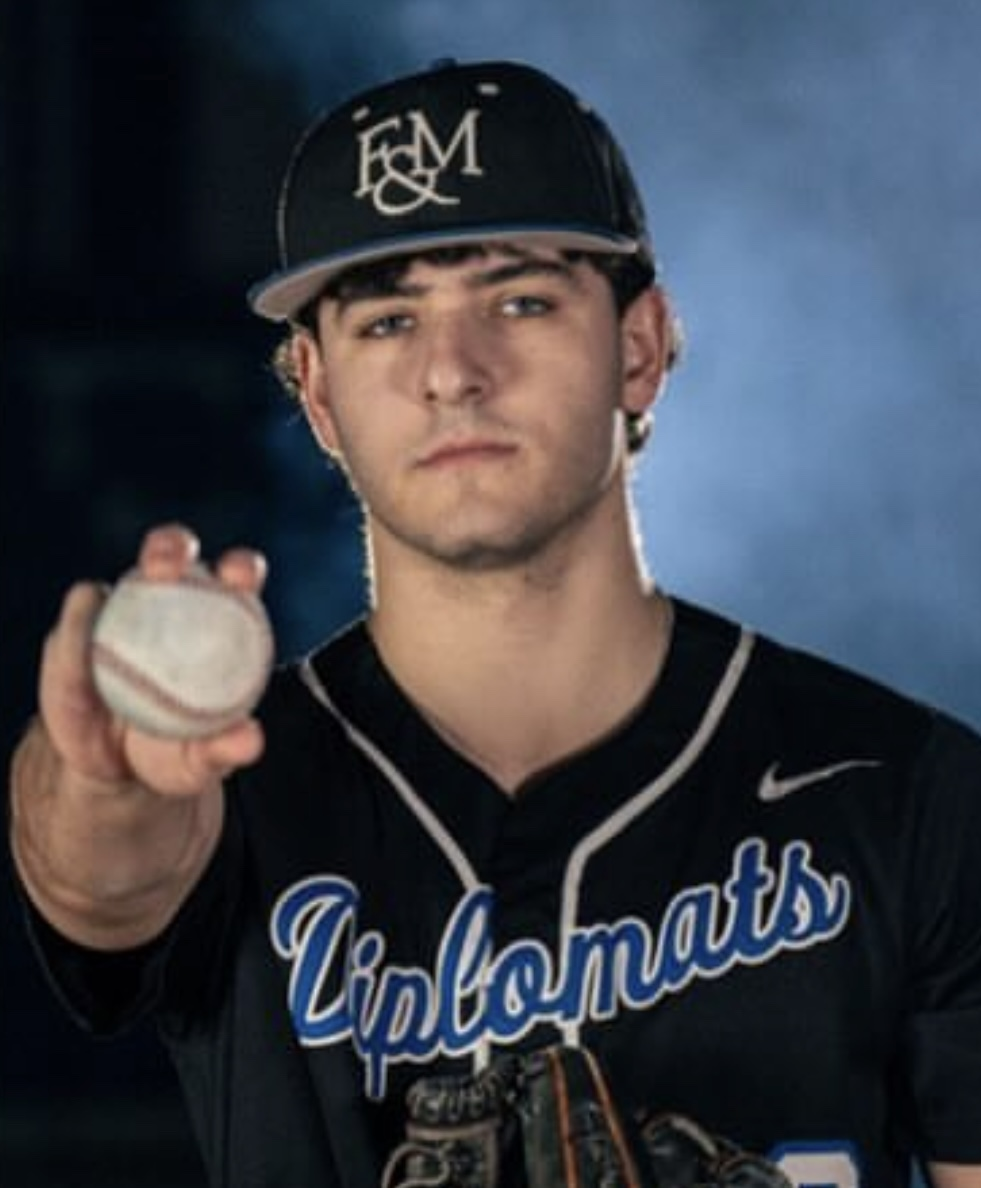
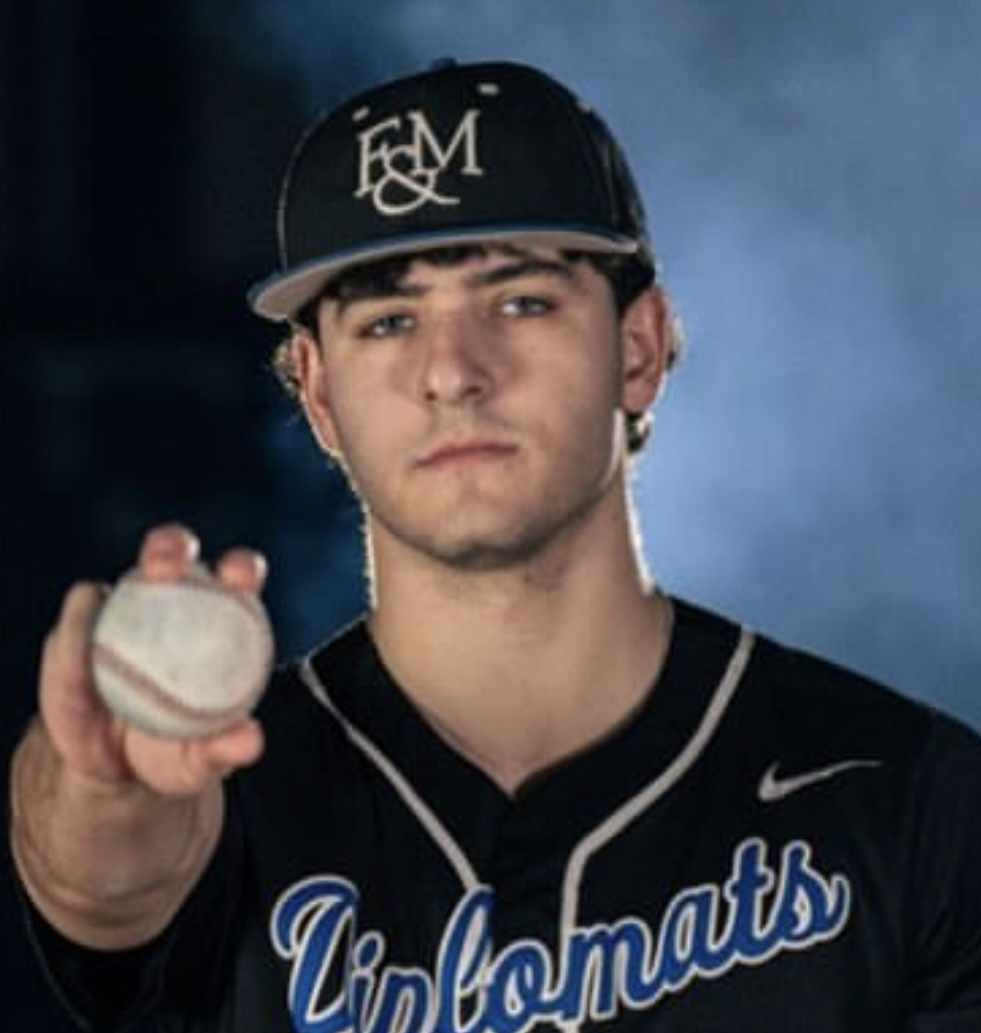
V2.10 ready for launch. Mobile optimizations. Player card text rework. Adjusted images.

diff --git a/client/style.css b/client/style.css
@@ -598,7 +598,8 @@ body {
   color: #1776ba;
   font-size: 1.2rem;
   font-weight: 800;
-  margin-top: 3rem;
+  margin-top: 0.5rem;
+  margin-bottom: 12rem;
   text-shadow:
     -1px -1px 0 #fff,
      1px -1px 0 #fff,
@@ -610,38 +611,19 @@ body {
      0   -1px 0 #fff,
      1px  1px 4px rgba(0, 0, 0, 0.6);
 }
+
 .card-overlay p {
   color: white;
-  font-weight: 350;
-  margin: 0.3rem 0;
-  text-shadow: 1px 1px 4px rgba(0,0,0,0.6);
+  font-weight: 400;
+  font-size: 0.95rem;
+  margin: 0.5rem 0;
+  text-shadow: 1px 1px 4px rgba(0,0,0,1);
 }
 
 .coach-card:hover {
   transform: scale(1.03);
   box-shadow: 0 10px 25px rgba(0, 0, 0, 0.3);
   cursor: pointer;
-}
-
-/* Schedule button */
-.schedule-btn {
-  background-color: #0077cc;
-  color: white;
-  padding: 0 8px;              
-  border-radius: 4px;
-  font-weight: 600;
-  font-size: 0.85rem;
-  line-height: 20px;            
-  box-sizing: border-box;
-  width: auto;
-  text-decoration: none;
-  align-self: center;
-  margin-bottom: 1rem;
-  cursor: pointer;
-  display: inline-flex;
-  align-items: center;
-  justify-content: center;
-  transition: background-color 0.3s ease;
 }
 
 #coach {
@@ -686,10 +668,6 @@ body {
 
 .coach-card:hover .click-hint {
   opacity: 1;
-}
-
-.schedule-btn:hover {
-  background-color: #1927ef;
 }
 
 .no-results {
@@ -1467,6 +1445,30 @@ body {
     flex-wrap: wrap;
     font-size: 0.95rem;
     word-break: break-all;
+  }
+
+  .calendar-scroll {
+    overflow-x: auto;
+    max-width: 100%;
+    -webkit-overflow-scrolling: touch;
+  }
+
+  .schedule-table {
+    min-width: 600px;
+    border-collapse: collapse;
+  }
+
+  .schedule-table th,
+  .schedule-table td {
+    padding: 8px;
+    text-align: center;
+    white-space: nowrap;
+  }
+
+  .modal-content {
+    max-width: 95vw;
+    max-height: 90vh;
+    overflow-y: auto;
   }
   
 }

diff --git a/client/index.html b/client/index.html
@@ -37,7 +37,7 @@
         <option value="girlsSoccer">Girls Soccer</option>
         <option value="football">Football</option>
         <option value="boysLax">Boys Lacrosse</option>
-        <option value="basketball">Basketball</option>
+        <option value="boysBasketball">Basketball</option>
       </select>
 
       <select id="day-select">
@@ -73,7 +73,7 @@
           <option value="girlsSoccer">Girls Soccer</option>
           <option value="football">Football</option>
           <option value="boysLax">Boys Lacrosse</option>
-          <option value="basketball">Basketball</option>
+          <option value="boysBasketball">Basketball</option>
         </select>
 
         <button class="menu-btn secondary-menu-btn" aria-label="Open Sidebar Menu">Check Coach Availability</button>

diff --git a/client/script.js b/client/script.js
@@ -377,6 +377,9 @@ document.addEventListener("DOMContentLoaded", () => {
     });
   
     tableHtml += "</tbody></table>";
+    // Wrap in scrollable div for mobile
+    const scrollWrapper = `<div class="calendar-scroll">${tableHtml}</div>`;
+    modalContent.innerHTML = scrollWrapper;
   
     // Build the rest of the modal content
     let html = `

diff --git a/client/admin.js b/client/admin.js
@@ -9,7 +9,7 @@ document.addEventListener("DOMContentLoaded", function () {
     girlsSoccer: "Girls Soccer",
     football: "Football",
     boysLax: "Boys Lacrosse",
-    basketball: "Basketball",
+    boysBasketball: "Boys Basketball",
     softball: "Softball",
   };
 

diff --git a/client/schedule.js b/client/schedule.js
@@ -4,7 +4,7 @@ const sportNames = {
   football: "Football",
   boysLax: "Boys Lacrosse",
   softball: "Softball",
-  basketball: "Basketball",
+  boysBasketball: "Boys Basketball",
 };
 
 const API_BASE_URL =
